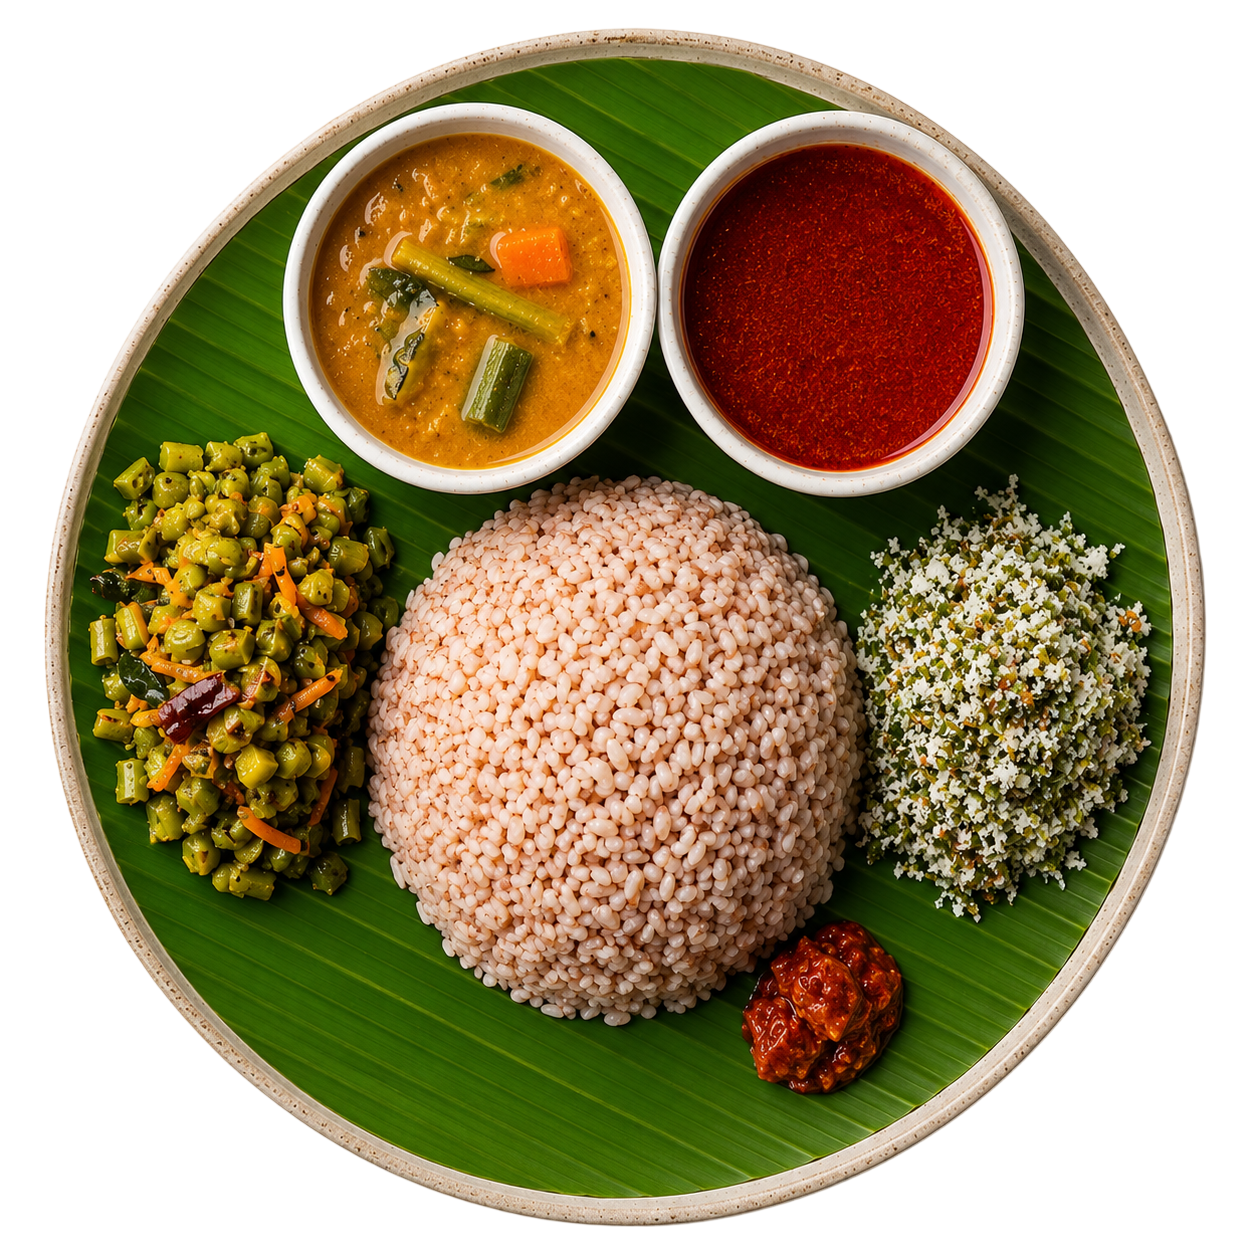
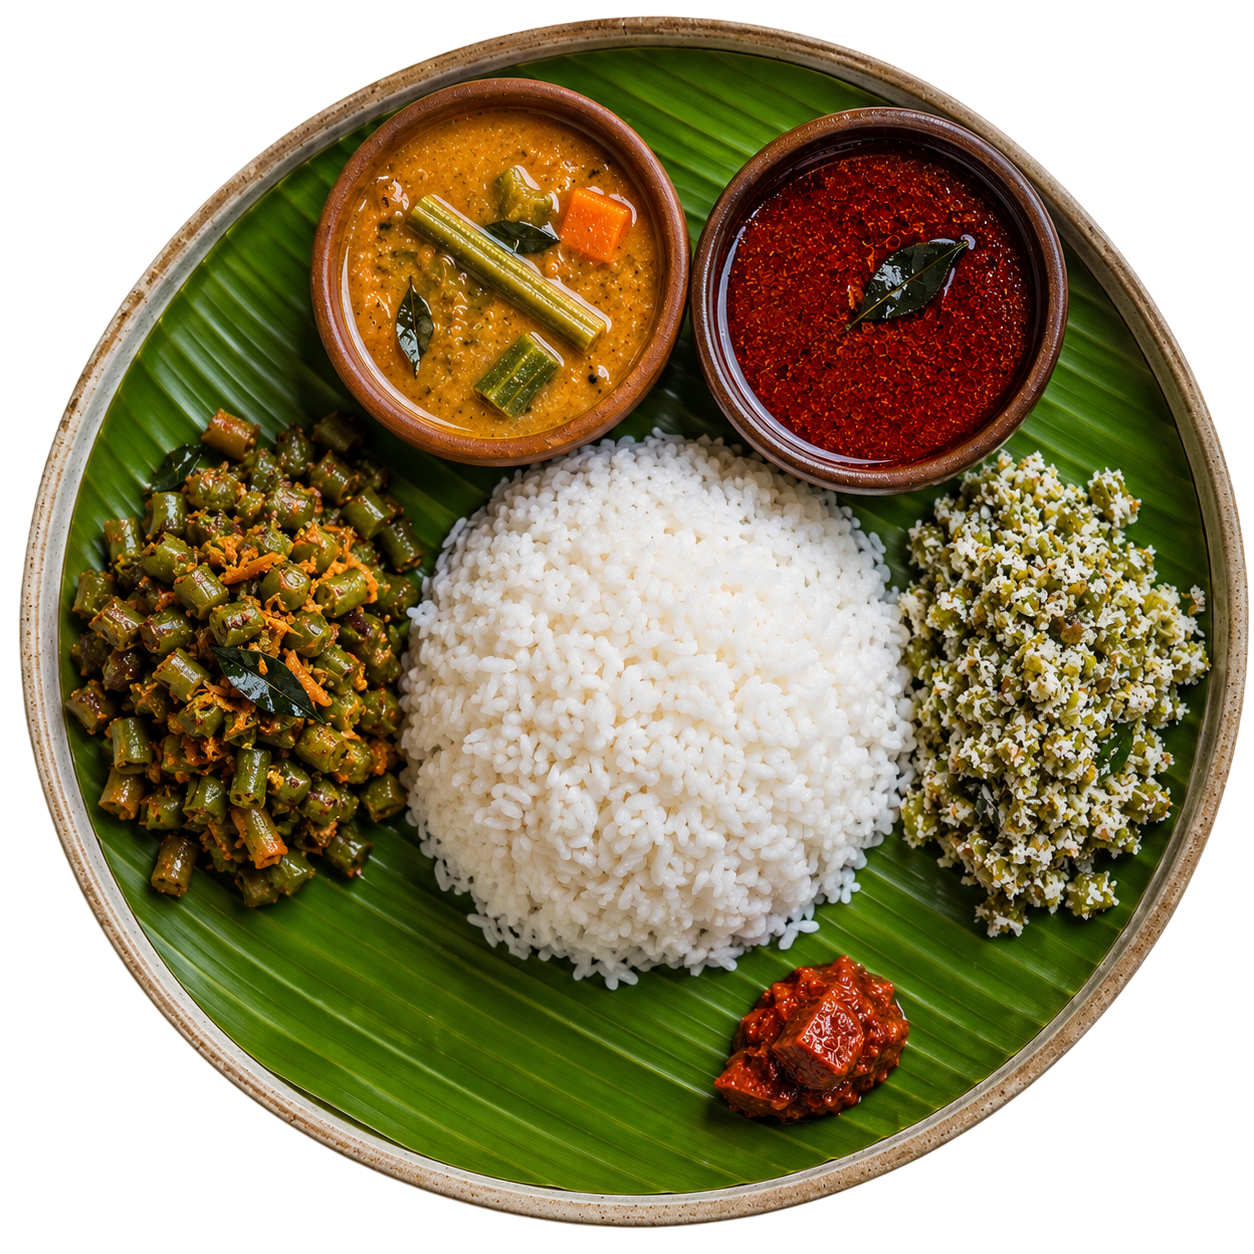
update hero section

diff --git a/Client/src/components/Register.jsx b/Client/src/components/Register.jsx
@@ -55,7 +55,6 @@ const Register = ({
   const [errors, setErrors] = useState({});
 
   const { mutate: register, isPending } = useRegister();
-  const hideTerms = tenant?.theme?.hideTermsAndConditions;
 
   const handleChange = (e) => {
     const { name, value, type, checked } = e.target;
@@ -76,13 +75,12 @@ const Register = ({
   const handleSubmit = async (e) => {
     e.preventDefault();
     try {
-      const payload = hideTerms ? { ...formData, termsAccepted: true } : formData;
-      registerSchema.parse(payload);
+      registerSchema.parse(formData);
       const registrationData = {
         email: formData.email,
         phone: formData.phone,
         password: formData.password,
-        termsAccepted: hideTerms ? true : formData.termsAccepted,
+        termsAccepted: formData.termsAccepted,
         name: formData.email.split('@')[0],
         companyPath: tenant?.companyPath,
       };
@@ -204,37 +202,35 @@ const Register = ({
             {errors.password && <p className="mt-1 text-sm text-red-500">{errors.password}</p>}
           </div>
 
-          {!hideTerms && (
-            <div>
-              <label className="flex items-start gap-2 text-sm text-gray-700 leading-snug">
-                <input
-                  id="termsAccepted"
-                  name="termsAccepted"
-                  type="checkbox"
-                  checked={formData.termsAccepted}
-                  onChange={handleChange}
-                  onBlur={handleBlur}
-                  className={`mt-0.5 h-4 w-4 shrink-0 focus:ring-[color:var(--auth-accent)] border-gray-300 rounded ${errors.termsAccepted ? 'border-red-500' : ''}`}
-                  style={{ accentColor: accent }}
-                  disabled={isPending}
-                />
-                <span className="inline-flex flex-wrap items-center gap-1">
-                  I agree to the{' '}
-                  <button
-                    type="button"
-                    onClick={() => setShowTermsModal(true)}
-                    className="font-medium hover:underline bg-transparent border-none p-0 cursor-pointer"
-                    style={{ color: accent }}
-                  >
-                    Terms & Conditions
-                  </button>
-                </span>
-              </label>
-              {errors.termsAccepted && (
-                <p className="mt-1 text-sm text-red-500">{errors.termsAccepted}</p>
-              )}
-            </div>
-          )}
+          <div>
+            <label className="flex items-start gap-2 text-sm text-gray-700 leading-snug">
+              <input
+                id="termsAccepted"
+                name="termsAccepted"
+                type="checkbox"
+                checked={formData.termsAccepted}
+                onChange={handleChange}
+                onBlur={handleBlur}
+                className={`mt-0.5 h-4 w-4 shrink-0 focus:ring-[color:var(--auth-accent)] border-gray-300 rounded ${errors.termsAccepted ? 'border-red-500' : ''}`}
+                style={{ accentColor: accent }}
+                disabled={isPending}
+              />
+              <span className="inline-flex flex-wrap items-center gap-1">
+                I agree to the{' '}
+                <button
+                  type="button"
+                  onClick={() => setShowTermsModal(true)}
+                  className="font-medium hover:underline bg-transparent border-none p-0 cursor-pointer"
+                  style={{ color: accent }}
+                >
+                  Terms & Conditions
+                </button>
+              </span>
+            </label>
+            {errors.termsAccepted && (
+              <p className="mt-1 text-sm text-red-500">{errors.termsAccepted}</p>
+            )}
+          </div>
 
           {errors.submit && <p className="text-sm text-red-500">{errors.submit}</p>}
 

diff --git a/Client/src/components/home/JPKHomeHero.jsx b/Client/src/components/home/JPKHomeHero.jsx
@@ -1,15 +1,10 @@
 import React from 'react';
-import { Link } from 'react-router-dom';
 import { motion } from 'framer-motion';
-
-const MAROON = '#7A151A';
 
 /**
  * JPK – premium immersive hero for Jay's Popular Kitchen (retail delivery).
  */
-const JPKHomeHero = ({ theme, base }) => {
-  const ctaColor = theme.heroCtaColor || MAROON;
-  const ctaHover = theme.heroCtaHoverColor || '#5E1014';
+const JPKHomeHero = ({ theme }) => {
   const textColor = theme.heroTextColor || '#1F2937';
   const subtextColor = theme.heroSubtextColor || '#4B5563';
 
@@ -70,33 +65,12 @@ const JPKHomeHero = ({ theme, base }) => {
             </h1>
 
             <p
-              className="text-base sm:text-lg leading-relaxed max-w-md mx-auto lg:mx-0 mb-9"
+              className="text-base sm:text-lg leading-relaxed max-w-md mx-auto lg:mx-0"
               style={{ color: subtextColor }}
             >
               {theme.heroDescription ||
-                'Homely Kerala lunch boxes made fresh every morning — individually packed, rider-delivered, and ready the moment hunger hits.'}
+                'Home-style Kerala lunch boxes made fresh every morning — individually packed, delivered straight to you, and ready the moment hunger hits.'}
             </p>
-
-            <Link to={`${base}${theme.heroCtaLink || '/place-order'}`} className="inline-block">
-              <motion.button
-                type="button"
-                className="w-full sm:w-auto px-9 py-4 rounded-full text-white text-sm sm:text-base font-semibold tracking-tight"
-                style={{
-                  backgroundColor: ctaColor,
-                  boxShadow: '0 10px 32px rgba(122, 21, 26, 0.32)',
-                }}
-                whileHover={{
-                  y: -4,
-                  boxShadow: '0 18px 44px rgba(122, 21, 26, 0.42)',
-                }}
-                whileTap={{ scale: 0.98 }}
-                transition={{ type: 'spring', stiffness: 400, damping: 22 }}
-                onMouseOver={(e) => { e.currentTarget.style.backgroundColor = ctaHover; }}
-                onMouseOut={(e) => { e.currentTarget.style.backgroundColor = ctaColor; }}
-              >
-                {theme.heroCtaText || 'Secure Your Lunch Box'}
-              </motion.button>
-            </Link>
           </motion.div>
 
           {/* Visual stage */}
@@ -119,9 +93,8 @@ const JPKHomeHero = ({ theme, base }) => {
                 transition={{ duration: 5.5, repeat: Infinity, ease: 'easeInOut' }}
               >
                 <img
-                  src={theme.heroShowcaseImage || '/combo.png'}
-                  alt=""
-                  role="presentation"
+                  src={theme.heroShowcaseImage || '/jpk/jpk-hero.png'}
+                  alt="Traditional Kerala meal served on a banana leaf"
                   className="w-full h-auto object-contain drop-shadow-[0_28px_48px_rgba(122,21,26,0.22)]"
                   style={{ filter: 'saturate(1.05) contrast(1.02)' }}
                 />

diff --git a/Client/src/config/tenantThemes.js b/Client/src/config/tenantThemes.js
@@ -112,12 +112,12 @@ export const tenantThemes = {
     heroSubtextColor: '#4B5563',
     heroCtaColor: '#7A151A',
     heroCtaHoverColor: '#5E1014',
-    heroShowcaseImage: '/combo.png',
+    heroShowcaseImage: '/jpk/jpk-hero.png',
     heroImage: '/jpk/jpk.jpeg',
     heroTitle: 'Authentic Kerala Meals. Packed Fresh. Delivered Daily.',
     heroSubtitle: 'Kerala Meals & Combos',
     heroDescription:
-      'Homely Kerala lunch boxes made fresh every morning — individually packed, rider-delivered, and ready the moment hunger hits.',
+      'Home-style Kerala lunch boxes made fresh every morning — individually packed, delivered straight to you, and ready the moment hunger hits.',
     heroCtaText: 'Secure Your Lunch Box',
     heroImageCaption: 'Individual Kerala Lunch Boxes',
     heroImageSubcaption: 'Packed fresh & delivered daily to your doorstep',
